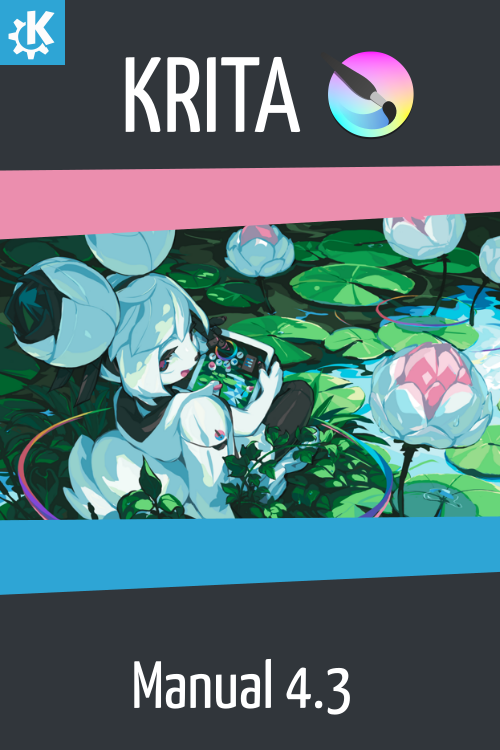
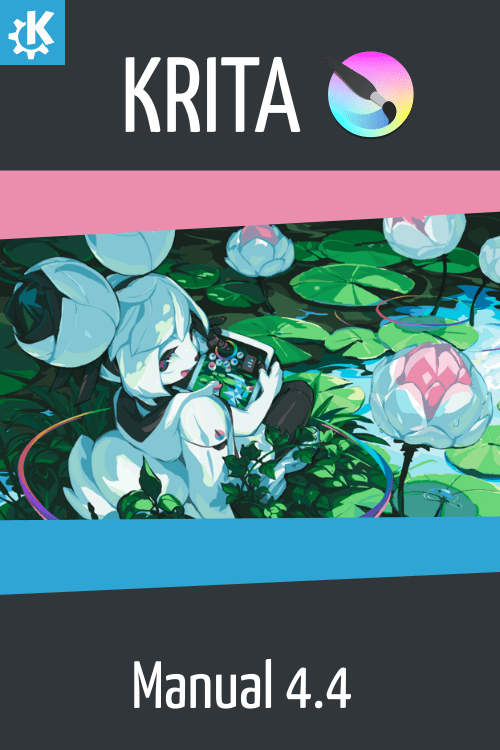
Update manual cover and conf.py to 4.4.0

Changed region(s): [[0.33, 0.2147, 1.0, 0.2453], [0.63, 0.8893, 0.72, 0.9507]]

diff --git a/conf.py b/conf.py
@@ -42,9 +42,9 @@ except subprocess.CalledProcessError as exc:
     gitcommithash = release
 
 # The short X.Y version
-version = '4.3'
+version = '4.4'
 # The full version, including alpha/beta/rc tags
-release = '4.3.0'
+release = '4.4.0'
 
 
 # -- General configuration ---------------------------------------------------
